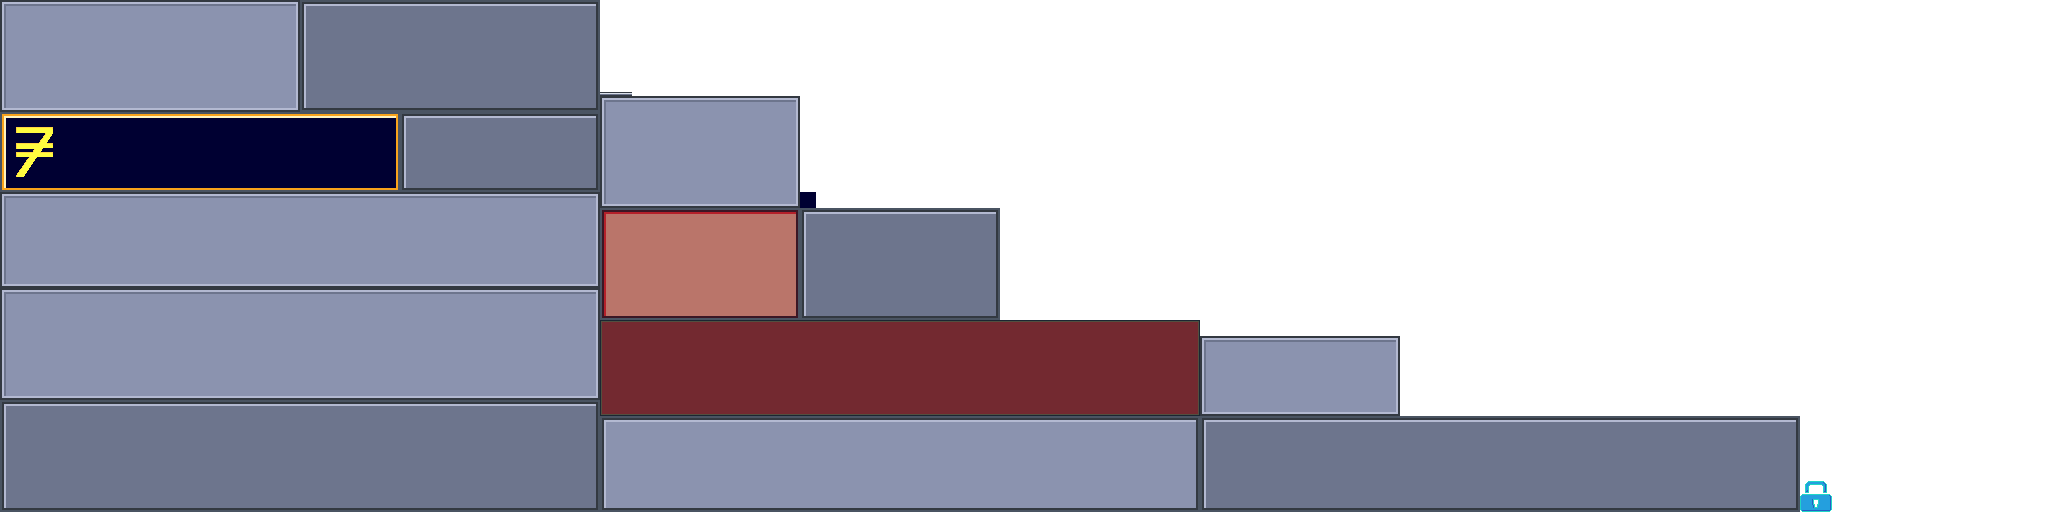
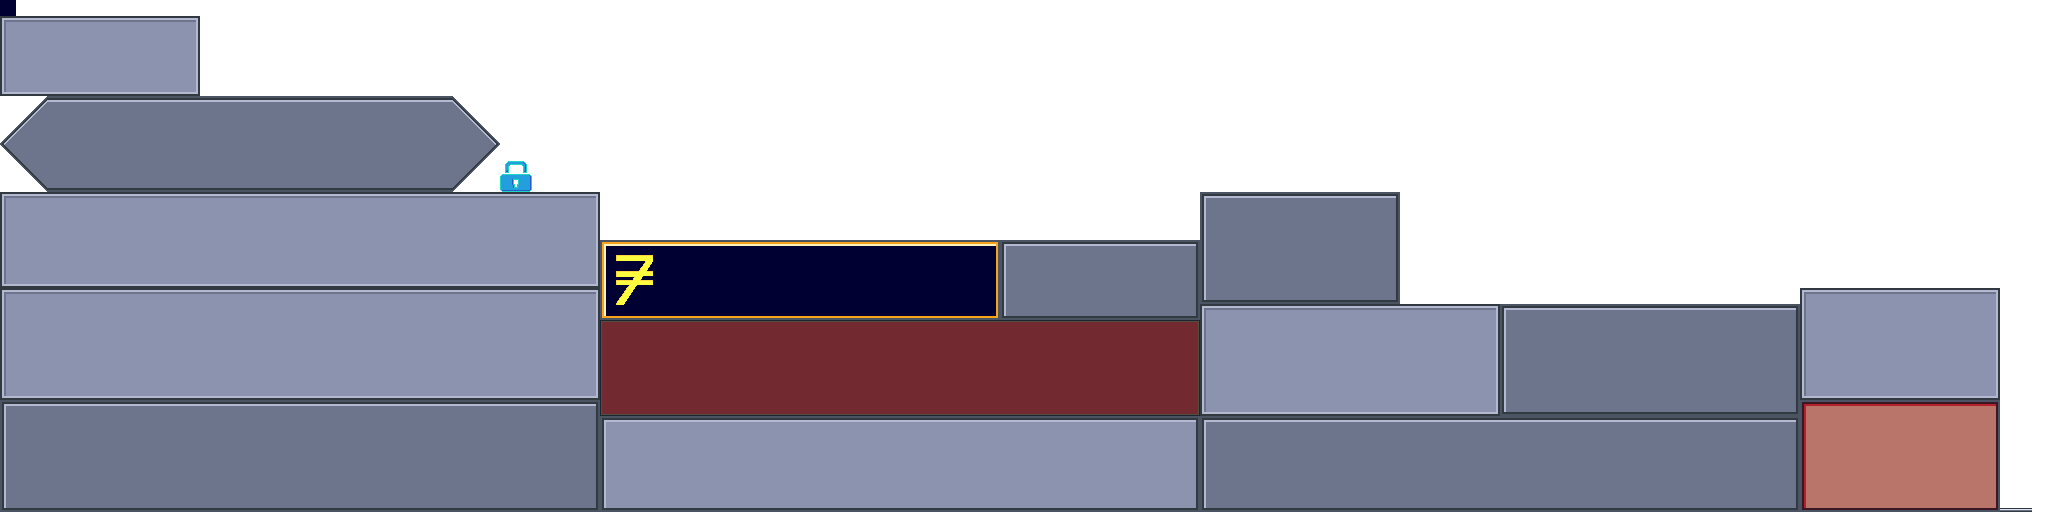
Last small update before AI work in beta branch

Changed region(s): [[0.0, 0.0, 1.0, 1.0]]

diff --git a/core/src/com/sabacc/gamestage/BettingStage.java b/core/src/com/sabacc/gamestage/BettingStage.java
@@ -541,12 +541,12 @@ public class BettingStage implements GameStage {
 
         TextField.TextFieldStyle style = new TextField.TextFieldStyle();
         style.font = main.game.font32;
-        style.background = main.uiSkin.getDrawable("button1-up");
+        style.background = main.uiSkin.getDrawable("text-input");
         style.fontColor = Color.WHITE;
         final TextField field = new TextField("", style);
-        field.setPosition(0, y);
+        field.setPosition(50, y);
         field.setAlignment(Align.center);
-        field.setSize(600,96);
+        field.setSize(500,96);
         field.setTextFieldFilter(new TextField.TextFieldFilter.DigitsOnlyFilter());
         field.setTextFieldListener(new TextField.TextFieldListener() {
             @Override
@@ -563,7 +563,7 @@ public class BettingStage implements GameStage {
         TextButton acceptButton = new TextButton("Accept", buttonStyle);
         acceptButton.setWidth(200);
         acceptButton.setHeight(96);
-        acceptButton.setPosition(0,y);
+        acceptButton.setPosition(100,y);
         acceptButton.addListener(new ClickListener() {
             @Override
             public void clicked(InputEvent e, float x, float y) {
@@ -576,7 +576,7 @@ public class BettingStage implements GameStage {
         TextButton cancelButton = new TextButton("Cancel", buttonStyle);
         cancelButton.setWidth(200);
         cancelButton.setHeight(96);
-        cancelButton.setPosition(400,y);
+        cancelButton.setPosition(300,y);
         cancelButton.addListener(new ClickListener() {
             @Override
             public void clicked(InputEvent e, float x, float y) {

diff --git a/core/src/com/sabacc/Player.java b/core/src/com/sabacc/Player.java
@@ -137,7 +137,6 @@ public class Player {
         // Folding Conditions: (-1)
         //  - If the player cannot afford to call the bid and their hand is bad
         //  - If the current bid is greater than this players max bid and they do not have a pure sabacc
-        //  - If this player has all 5 cards in hand but a hand value less than 14
         //  - If the hand value is bombed out, then fold
         // All in Conditions: (-2)
         //  - If the player cannot afford to call the bid and their hand is good
@@ -196,12 +195,12 @@ public class Player {
      * @return -1 if this player calls, 0 if they stand, 1 if they draw
      */
     public int drawChoice(int untilCall) {
-        if (Math.abs(score) < 18 || (Math.abs(score) > 24 && Math.abs(score) < 28 && numCards() < 4))
+        if (Math.abs(score) < 18 || (Math.abs(score) > 24 && Math.abs(score) < 30 && numCards() < 4))
             return 1;
         if (untilCall <= 0 && Math.abs(score) > 17 && Math.abs(score) < 24)
             return -1;
         //if (untilCall <= 0 && Math.random() < 0.2) // Randomly call 20% of the time if able, to prevent random loops
-        //  return -1;
+        //  return -1;                               // We don't really need this as eventually Sabacc Shifts will force players into good hands to call
         return 0;
     }
 }

diff --git a/core/src/com/sabacc/screens/GameScreen.java b/core/src/com/sabacc/screens/GameScreen.java
@@ -531,8 +531,10 @@ public class GameScreen implements Screen {
                             selected = player.hand().get(i);
                             if (selected == doubleTap) {
                                 // If the player double taps a card, field it
-                                fieldCard(player, doubleTap);
-                                doubleTap = null;
+                                if (!player.folded) {
+                                    fieldCard(player, doubleTap);
+                                    doubleTap = null;
+                                }
                             } else {
                                 // Otherwise, start a new timer to see if they double tap another card
                                 doubleTap = selected;
